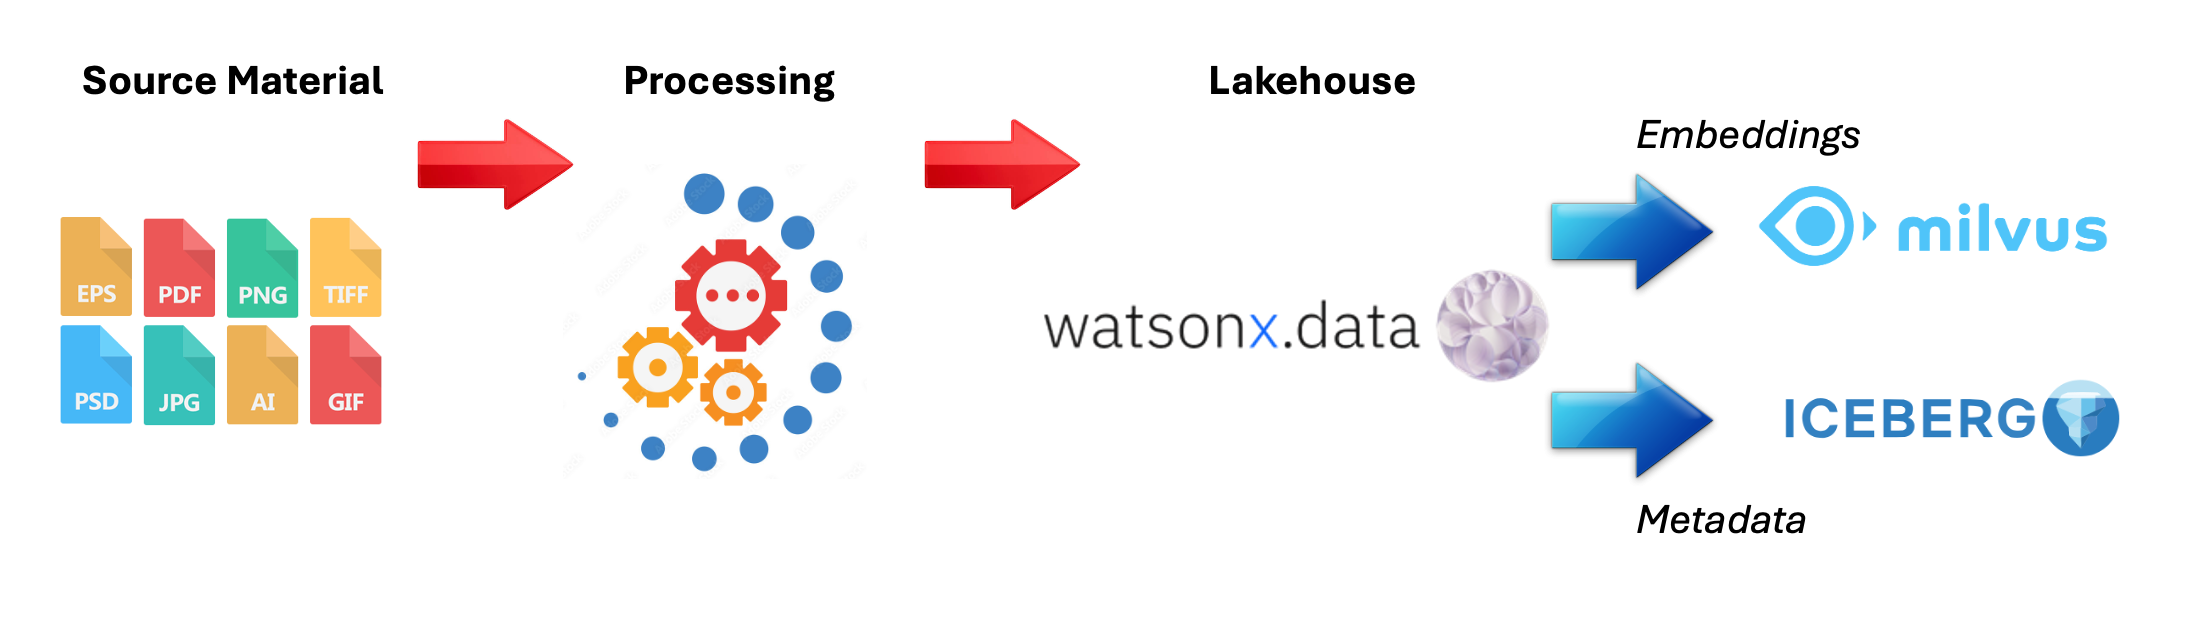
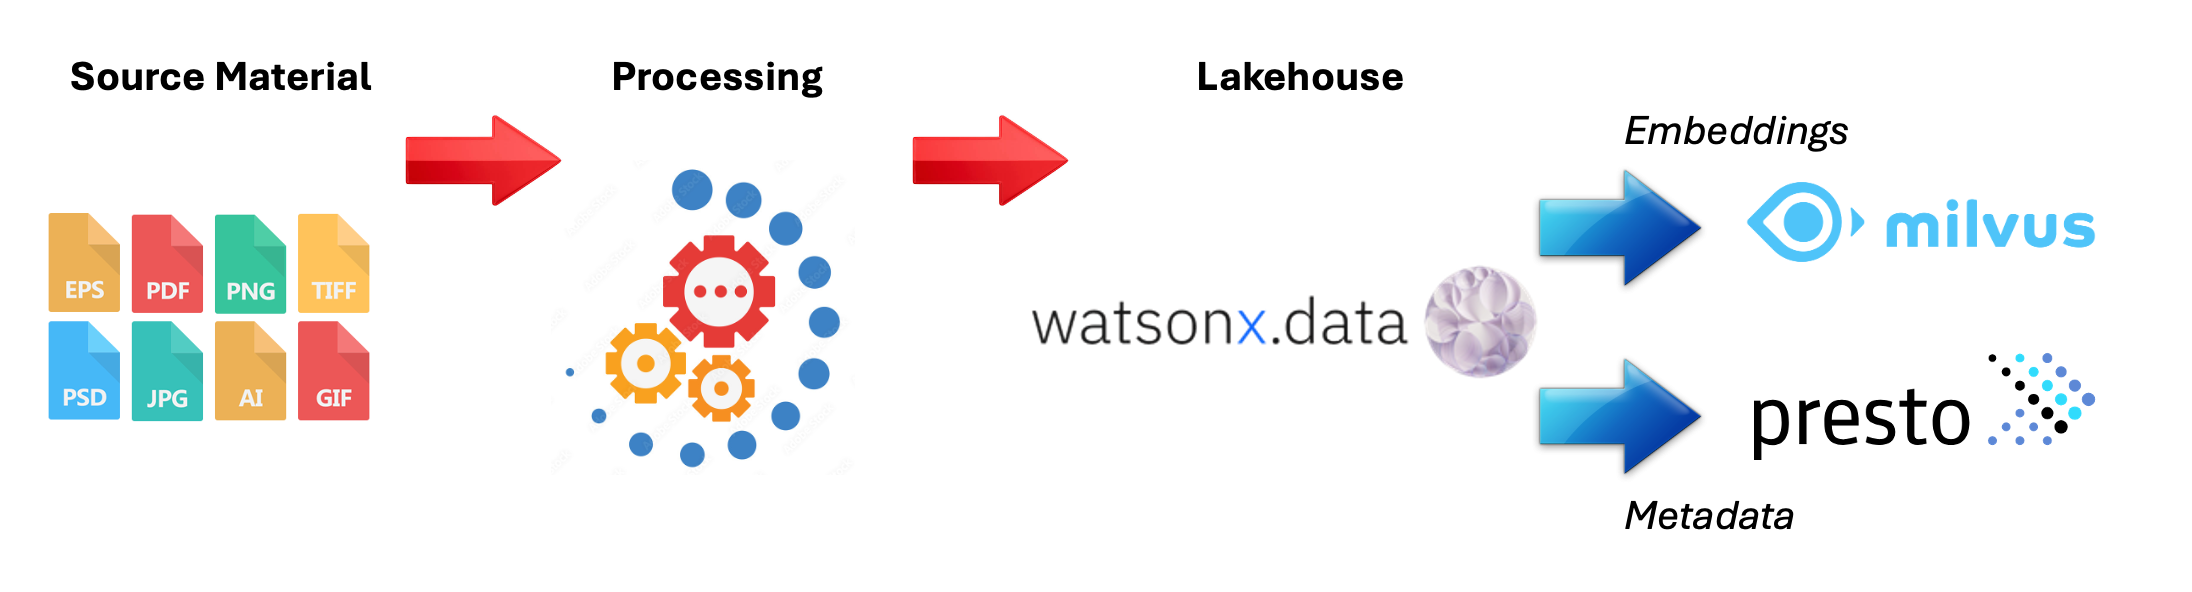
run

diff --git a/README.md b/README.md
@@ -110,10 +110,11 @@ If they encounter an unidentified object, that is considered an **anomaly**. The
   <img src="./images/asteroid.gif" />
 </p>
 
-
-In order to assess the risks of an object, astronomers often compare their observations (i.e: their own sky images) with established scientific databases that catalog all known celestial objects. Examples of these databases include [GAIA](https://www.cosmos.esa.int/web/gaia/), the [Horizons System](https://ssd.jpl.nasa.gov/horizons/) and the [Minor Planet Center](http://www.minorplanetcenter.net/about).  These systems house billions of entries and petabytes of data. Indeed, the universe is vast. The demo illustrates how to create a private image repository in a Data Lakehouse, which is probably what a company would do with its confidential material. The process is depicted in the following picture. Note how we split the raw graphical information and the associated metadata.
+In order to assess the risks of an object, astronomers often compare their observations (i.e: their own sky images) with established scientific databases that catalog all known celestial objects. Examples of these databases include [GAIA](https://www.cosmos.esa.int/web/gaia/), the [Horizons System](https://ssd.jpl.nasa.gov/horizons/) and the [Minor Planet Center](http://www.minorplanetcenter.net/about).  These systems house billions of entries and petabytes of data. Indeed, the universe is vast. The demo illustrates how to create a **private image repository in a Data Lakehouse**, which is probably what a company would do with its confidential material. The process is depicted in the following picture. Note how we split the raw graphical information and the associated metadata.
 
 ![init](./images/init.png "init")
+
+In short, we can say that the embeddings are vectorized representations of the image, will we will use for comparing pictures and identifying strange things, and the metadata is tabular information contains additional details about the picture (date, location, weather, exposure, telecope...).The former is what some people would call "unstructured" information and the latter have a traditional structure can be stored in our well-known relational tables.
 
 ### 1. Content generation: graphics and metadata
 
@@ -129,21 +130,18 @@ Obviuosly, there are many cables that I am not showing in the picture and a few 
 
 ![Gear](./images/gear.png "Gear")
 
-Astronomical instruments, even for amateurs, do not usually generate pictures in a format that the common public likes (it is the same with industrial sensors, right?). A popular picture format in astronomy is called [FITS](https://en.wikipedia.org/wiki/FITS) which is optimized for the processing work that is needed in astronomy. For this demo, the good thing about this format is that it contains plenty of metadata embedded in the picture file.
+Astronomical instruments, even for amateurs, do not usually generate pictures in a format that the common public likes (it is the same with industrial sensors, right?). A popular picture format in astronomy is called [FITS](https://en.wikipedia.org/wiki/FITS) which is optimized for the processing work that is needed in astronomy. For this demo, the good thing about this format is that it contains plenty of metadata embedded in the picture file. Look at the right part of the following picture:
 
 ![fitsheader](./images/fitsheader.png "fitsheader")
 
-### 2. Content transport and storage
-
-
+### 2. Content transport, storage and similarity search
 
 We need to store for some time the events until we are sure that can be disposed.
-
-### 3. Similarity search and alert generation
 
 Metadata help us to perform sensible searchs  
 
 
+![run](./images/run.png "run")
 
 
 
